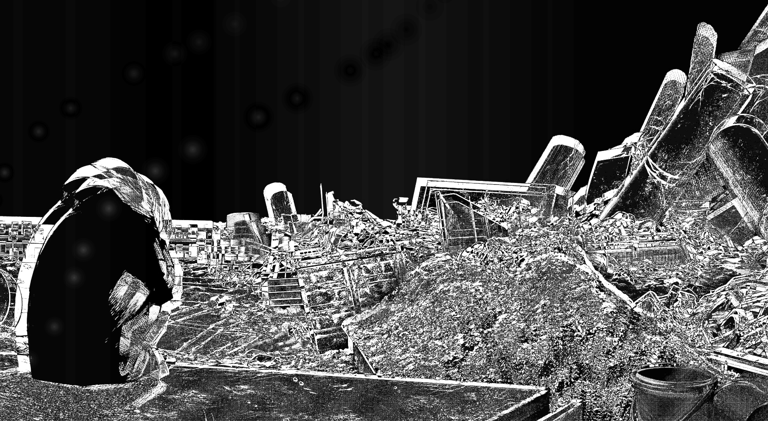
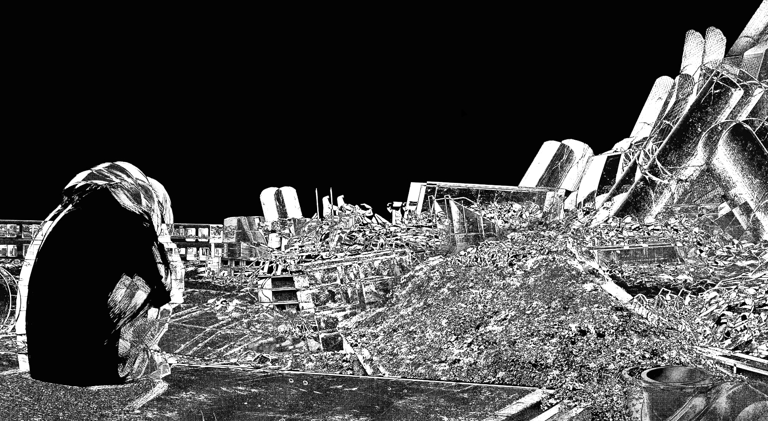
feat: remove everything painted on top of the wallpaper (v0.5)
The travelling glint band (the moving halo) and the drifting motes (the round
specks) are gone, along with glow.png/make-glow.py which only existed to draw
them. What is left is the picture itself moving: Ken Burns zoom, pan tied to
the zoom slack, and the room-light exposure breath. No additive layer remains,
so nothing can tint or halo the wallpaper.

diff --git a/Service.qml b/Service.qml
@@ -45,16 +45,11 @@ Item {
   readonly property real panAmount: 0.65       // fraction of the zoom slack the pan uses
   readonly property real exposureDepth: 0.025  // room-light breath
   readonly property int exposurePeriodMs: 22000
-  readonly property real moteAlpha: 0.08
-  readonly property int moteCount: 26
-  readonly property real glintOpacity: 0.07    // travelling light band
-  readonly property int glintPeriodMs: 42000
   readonly property int revealMs: 420          // Omarchy's own reveal duration
 
   readonly property string home: Quickshell.env("HOME")
   readonly property string stateDir: home + "/.local/state/omarchy/current"
   readonly property string currentLink: stateDir + "/background"
-  readonly property color accent: Color.accent !== undefined ? Color.accent : "#ffffff"
 
   // ---------------------------------------------------------------- values
   function wave(periodMs) {
@@ -74,9 +69,6 @@ Item {
   readonly property real panUnitY: panAmount * root.orbit(panPeriodMs * 0.8, 1.6)
 
   readonly property real exposure: exposureDepth * root.wave(exposurePeriodMs)
-
-  readonly property real glintSweep: (clock % glintPeriodMs) / glintPeriodMs
-  readonly property real glint: glintOpacity * Math.sin(Math.PI * glintSweep)
 
   property real clock: 0
   Timer {
@@ -181,9 +173,8 @@ Item {
   Component.onCompleted: {
     refresh()
     watcher.running = true
-    console.log("[animated-wallpaper] ready v0.4: screens=" + Quickshell.screens.length
-      + " motion=" + root.motion + " scalePeriodMs=" + root.scalePeriodMs
-      + " accent=" + root.accent)
+    console.log("[animated-wallpaper] ready v0.5: screens=" + Quickshell.screens.length
+      + " motion=" + root.motion + " scalePeriodMs=" + root.scalePeriodMs)
   }
 
   Variants {
@@ -302,54 +293,9 @@ Item {
         }
       }
 
-      // --------------------------------------------------- ambient light
-      // Glint: a wide, faint band of accent light crossing the screen every
-      // 42 s. Faded in and out by sin(), so it never pops at the edges.
-      // (The v0.1 accent bloom is gone: it fought the wallpaper instead of
-      // moving with it. glow.png is still the motes' texture.)
-      Rectangle {
-        id: glint
-        width: win.width * 0.5
-        height: win.height
-        x: -width + (win.width + width) * root.glintSweep
-        opacity: root.glint
-        visible: opacity > 0.002
-        gradient: Gradient {
-          orientation: Gradient.Horizontal
-          GradientStop { position: 0.0; color: Qt.rgba(root.accent.r, root.accent.g, root.accent.b, 0.0) }
-          GradientStop { position: 0.5; color: Qt.rgba(root.accent.r, root.accent.g, root.accent.b, 1.0) }
-          GradientStop { position: 1.0; color: Qt.rgba(root.accent.r, root.accent.g, root.accent.b, 0.0) }
-        }
-      }
-
-      // Motes: dust in the light. Positions come from the same clock -- no
-      // particle system, because Qt's particle system drives its own frame
-      // ticker and would cost several times the repaints.
-      Repeater {
-        model: root.moteCount
-
-        Item {
-          id: mote
-          required property int index
-
-          readonly property real seed: (index * 0.6180339887) % 1
-          readonly property real period: 40000 + seed * 40000
-          readonly property real t: ((root.clock + seed * 90000) % period) / period
-          readonly property real size: (60 + seed * 120) * (win.width / 1920)
-
-          width: size
-          height: size
-          x: seed * win.width + win.width * 0.04 * Math.sin(2 * Math.PI * (t + seed)) - size / 2
-          y: win.height * (1.08 - 1.16 * t)
-          opacity: root.moteAlpha * Math.sin(Math.PI * t)
-
-          Image {
-            anchors.fill: parent
-            source: Qt.resolvedUrl("glow.png")
-            fillMode: Image.PreserveAspectFit
-          }
-        }
-      }
+      // Nothing is painted on top of the wallpaper any more: the v0.1 accent
+      // bloom, the v0.3 glint band and the motes are all gone. The image is
+      // the entire effect -- it moves, and that is all.
 
       // Exposure: the whole picture darkens a little and comes back, like the
       // light in the room changing. Topmost, so it grades everything.

diff --git a/README.md b/README.md
@@ -1,7 +1,7 @@
 # Animated Wallpaper
 
-A wallpaper that is faintly **alive**: the image itself drifts, a band of light crosses it, dust floats.
-Nothing moves *on top of* your windows — it all happens behind them.
+A wallpaper that is faintly **alive**: the image itself drifts, very slowly. Nothing is painted on
+top of it — no haze, no light, no particles, just the picture moving.
 
 Omarchy 4 (Quattro) plugin, Quickshell + QML.
 
@@ -14,8 +14,6 @@ Everything is scaled by a single dial: `motion` (`0.02` = the shipped 2%).
 | Ken Burns zoom | 1.000 → 1.070 | 34 s |
 | Pan | up to ±44 px, tied to the zoom slack | 47 s |
 | Exposure | 0 → 2.5 % darker, then back | 22 s |
-| Glint (a band of light crossing) | 0 → 7 % alpha | 42 s |
-| Motes (dust in the light) | 26 specks, ≤8 % alpha | 40–80 s rise |
 
 **Speed is what makes motion visible, not size.** The first version moved 2 % over 90 s — that is
 0.7 px/s at the screen edge, and no eye catches it. The current preset moves the image edge at
@@ -42,7 +40,7 @@ because that is the only way the image itself can move. Two consequences worth k
 | wl-layer-shell layer | Who paints there |
 |---|---|
 | background | `omarchy.background` — the stock wallpaper (now only a fallback) |
-| **bottom** | **this plugin — the wallpaper copy, the glint, the motes** |
+| **bottom** | **this plugin — the wallpaper copy, moving** |
 | top | the bar |
 | overlay | menus, OSD, notifications |
 
@@ -79,12 +77,10 @@ The knobs are the `readonly` properties at the top of `Service.qml`:
 | `panPeriodMs` | `47000` | one pan orbit |
 | `panAmount` | `0.65` | fraction of the zoom slack the pan uses; 1.0 is the safe maximum |
 | `exposureDepth` / `exposurePeriodMs` | `0.025` / `22000` | the room-light breath |
-| `glintOpacity` / `glintPeriodMs` | `0.07` / `42000` | the travelling light band |
-| `moteCount` / `moteAlpha` | `26` / `0.08` | the dust |
 | `frameMs` | `70` | repaint interval (~14 fps); `140` = ~7 fps, still smooth |
 | `revealMs` | `420` | wallpaper-change reveal (matches Omarchy) |
 
-To calm it down without killing it: `motion: 0.04`, `glintOpacity: 0.04`, `moteAlpha: 0.05`.
+To calm it down: `motion: 0.04`.
 
 If the fine detail of a busy illustration shimmers (sub-pixel resampling on stippled line art),
 lengthen `panPeriodMs`, raise `scalePeriodMs` or lower `motion` — that shimmer is the price of a
@@ -124,6 +120,5 @@ delegates it can see, so a separate component silently gets an undefined screen 
 | 0.1 | accent-tinted glow breathing over the wallpaper |
 | 0.2 | the plugin paints the wallpaper itself, so the image can move (Ken Burns + pan + exposure) |
 | 0.3 | amplitudes and speeds raised: 2 % over 90 s (0.7 px/s) was invisible, so it became 7 % over 34 s (~6 px/s) |
-| 0.4 | the 0.1 glow removed — a static coloured haze fought the moving image. The glint (a band of light crossing) took over its job of putting light in the scene |
-
-`glow.png` / `make-glow.py` survive because the motes still use that texture.
+| 0.4 | the 0.1 glow removed — a static coloured haze fought the moving image |
+| 0.5 | everything additive gone: the glint band and the motes too. The image moving is the entire effect; `glow.png` and `make-glow.py` were deleted with them |
